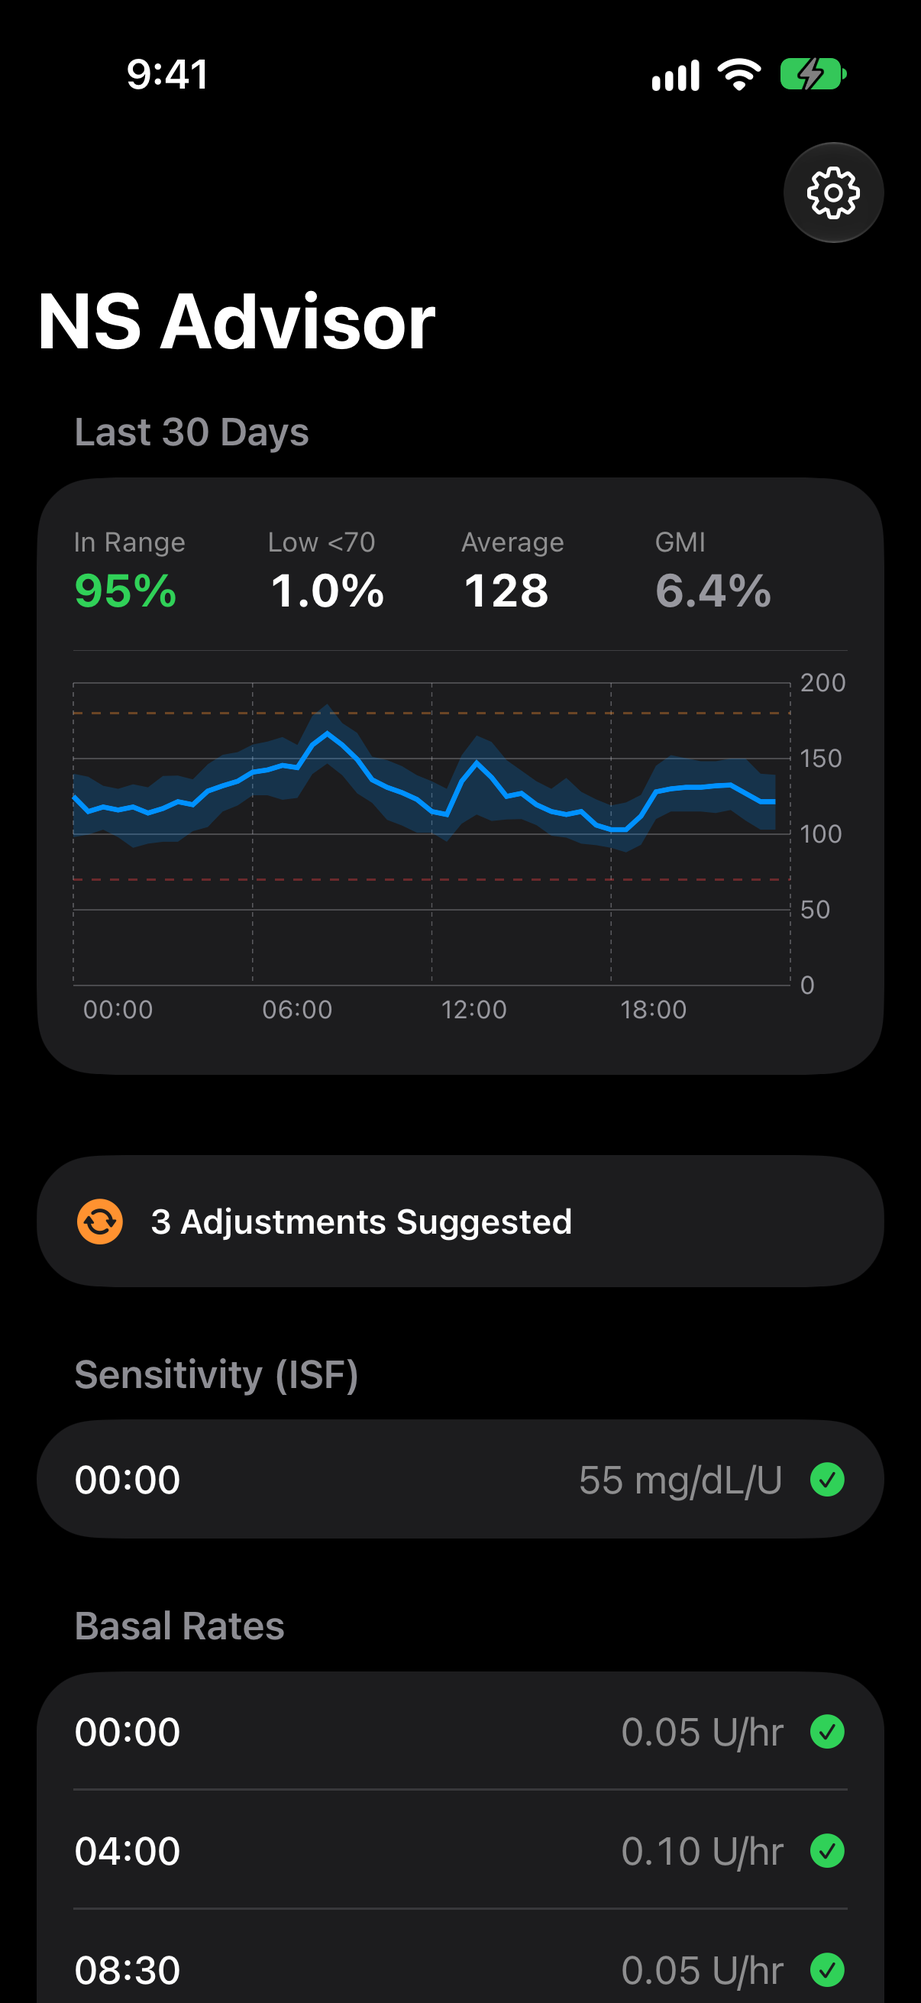
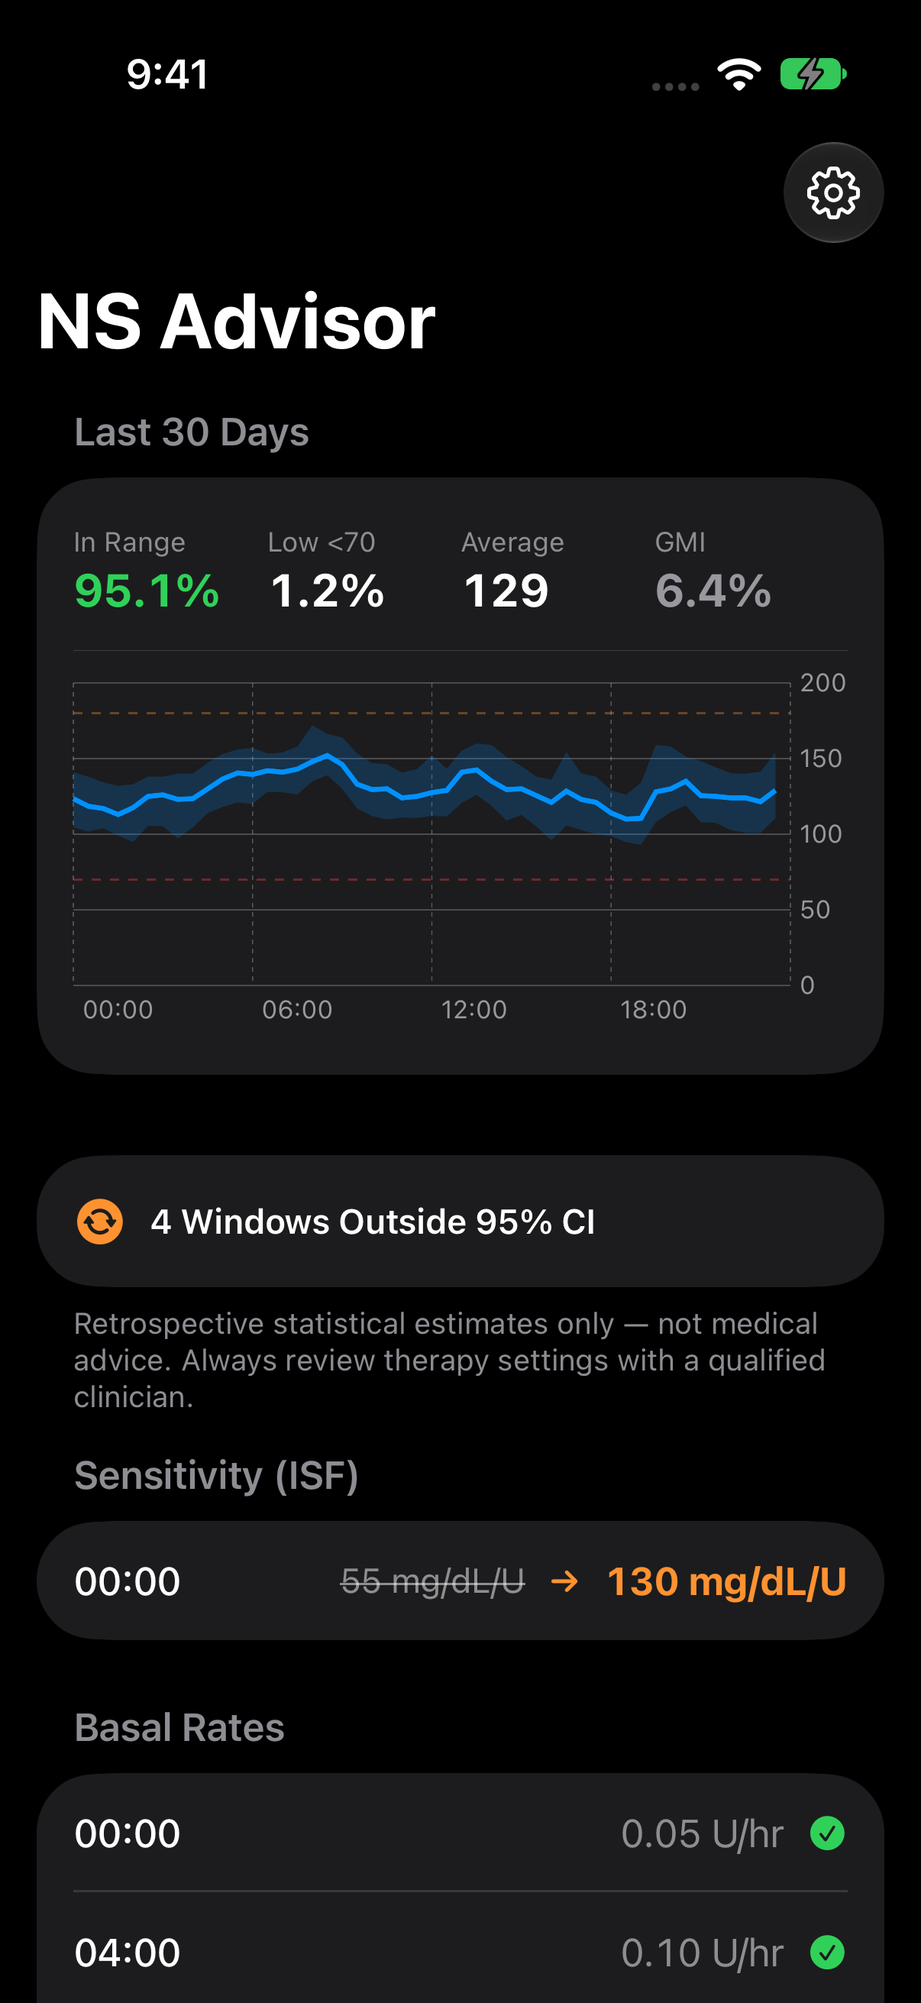
Add #WeAreNotWaiting first-launch safety acknowledgment, DISCLAIMER.md, and non-prescriptive CI phrasing

diff --git a/Apps/iOS/Views/RootContentView.swift b/Apps/iOS/Views/RootContentView.swift
@@ -7,7 +7,11 @@ struct RootContentView: View {
 
     var body: some View {
         Group {
-            if let report = viewModel.report {
+            if !viewModel.hasAcceptedDIYDisclaimer {
+                DIYSafetyAcknowledgmentView {
+                    viewModel.acceptDIYDisclaimer()
+                }
+            } else if let report = viewModel.report {
                 OverviewTabView(
                     viewModel: viewModel,
                     report: report,
@@ -21,7 +25,7 @@ struct RootContentView: View {
             }
         }
         .overlay {
-            if viewModel.isLoading && viewModel.report == nil {
+            if viewModel.isLoading && viewModel.report == nil && viewModel.hasAcceptedDIYDisclaimer {
                 ZStack {
                     Color.black.opacity(0.2).ignoresSafeArea()
                     VStack(spacing: 12) {
@@ -35,6 +39,109 @@ struct RootContentView: View {
                 }
             }
         }
+    }
+}
+
+struct DIYSafetyAcknowledgmentView: View {
+    var isReadOnlyReview: Bool = false
+    var onAccept: (() -> Void)? = nil
+
+    @Environment(\.dismiss) private var dismiss
+    @State private var confirmedUnderstanding = false
+
+    var body: some View {
+        NavigationStack {
+            Form {
+                Section {
+                    VStack(alignment: .leading, spacing: 8) {
+                        Label("Experimental Open-Source Code", systemImage: "exclamationmark.triangle.fill")
+                            .font(.headline)
+                            .foregroundStyle(.orange)
+                        Text("Nightscout Advisor is an open-source #WeAreNotWaiting community research project. It has NOT been reviewed, cleared, or approved by the FDA, EMA, or any regulatory authority, and is provided \"AS IS\" without warranty of any kind.")
+                            .font(.subheadline)
+                            .foregroundStyle(.secondary)
+                    }
+                    .padding(.vertical, 4)
+                }
+
+                Section("Important Safety Boundaries") {
+                    DIYNoticeRow(
+                        icon: "chart.xyaxis.line",
+                        title: "Retrospective Statistics Only — Not Medical Advice",
+                        detail: "All outputs are mathematical summaries of historical Nightscout logs. They cannot detect sensor compression lows, infusion site issues, illness, exercise, hormones, or unlogged meals."
+                    )
+                    DIYNoticeRow(
+                        icon: "bolt.heart.fill",
+                        title: "Insulin Parameter Changes Carry Severe Risk",
+                        detail: "Incorrect basal rates, insulin sensitivity factors (ISF), carb ratios, or target ranges can cause severe hypoglycemia, diabetic ketoacidosis (DKA), coma, or death."
+                    )
+                    DIYNoticeRow(
+                        icon: "stethoscope",
+                        title: "Independent Clinician Review Required",
+                        detail: "Never change insulin pump or closed-loop settings based solely on this software. Always evaluate retrospective data together with a qualified endocrinologist or diabetes care clinician."
+                    )
+                    DIYNoticeRow(
+                        icon: "person.badge.shield.checkmark.fill",
+                        title: "DIY Self-Build & Full User Responsibility",
+                        detail: "Do not distribute compiled builds to others. By building and running this source code, you assume sole responsibility for its operation and verify all clinical decisions independently."
+                    )
+                }
+
+                if !isReadOnlyReview {
+                    Section {
+                        Toggle(isOn: $confirmedUnderstanding) {
+                            Text("I understand this is unvalidated open-source research software, not medical advice, and I accept full responsibility.")
+                                .font(.footnote.weight(.medium))
+                        }
+
+                        Button {
+                            onAccept?()
+                        } label: {
+                            HStack {
+                                Spacer()
+                                Text("I Understand & Continue")
+                                    .font(.headline)
+                                Spacer()
+                            }
+                        }
+                        .disabled(!confirmedUnderstanding)
+                    }
+                }
+            }
+            .navigationTitle("Safety & Disclaimer")
+            .navigationBarTitleDisplayMode(.inline)
+            .toolbar {
+                if isReadOnlyReview {
+                    ToolbarItem(placement: .topBarTrailing) {
+                        Button("Done") { dismiss() }
+                    }
+                }
+            }
+        }
+    }
+}
+
+private struct DIYNoticeRow: View {
+    let icon: String
+    let title: String
+    let detail: String
+
+    var body: some View {
+        HStack(alignment: .top, spacing: 12) {
+            Image(systemName: icon)
+                .font(.body.weight(.semibold))
+                .foregroundStyle(.orange)
+                .frame(width: 22)
+                .padding(.top, 2)
+            VStack(alignment: .leading, spacing: 4) {
+                Text(title)
+                    .font(.subheadline.weight(.semibold))
+                Text(detail)
+                    .font(.caption)
+                    .foregroundStyle(.secondary)
+            }
+        }
+        .padding(.vertical, 3)
     }
 }
 
@@ -53,7 +160,7 @@ struct OnboardingWelcomeView: View {
                 } header: {
                     Text("Connect Nightscout")
                 } footer: {
-                    Text("Analyzes your glucose and insulin history privately on your iPhone.")
+                    Text("Reads historical glucose and treatment telemetry privately on your iPhone (read-only).")
                 }
 
                 Section {

diff --git a/Apps/iOS/AdvisorViewModel.swift b/Apps/iOS/AdvisorViewModel.swift
@@ -10,6 +10,7 @@ final class AdvisorViewModel: ObservableObject {
     @Published var isLoading: Bool = false
     @Published var errorMessage: String?
     @Published var isDemoMode: Bool = false
+    @Published var hasAcceptedDIYDisclaimer: Bool
 
     private let store = AdvisorStore.shared
     private let client = NightscoutClient()
@@ -22,9 +23,11 @@ final class AdvisorViewModel: ObservableObject {
         self.config = savedConfig
         self.report = cached
         self.isDemoMode = cached?.sourceURL.hasPrefix("demo://") == true
+        self.hasAcceptedDIYDisclaimer = AdvisorStore.shared.hasAcknowledgedDIYDisclaimer()
         WatchSyncBridge.shared.activate()
 
         if ProcessInfo.processInfo.arguments.contains("--demo-screenshots") {
+            self.hasAcceptedDIYDisclaimer = true
             let demoBundle = DemoTelemetryGenerator.makeSyntheticBundle(days: savedConfig.rollingDays, units: .mgdL)
             if let demoReport = try? TherapyAdvisorSolver.solve(bundle: demoBundle, config: savedConfig) {
                 self.report = demoReport
@@ -33,11 +36,19 @@ final class AdvisorViewModel: ObservableObject {
             return
         }
 
-        if savedCreds.normalizedBaseURL != nil {
+        if self.hasAcceptedDIYDisclaimer, savedCreds.normalizedBaseURL != nil {
             let isStale = cached.map { Date().timeIntervalSince($0.generatedAt) > 1800 } ?? true
             if isStale {
                 Task { await refreshFromNightscout() }
             }
+        }
+    }
+
+    func acceptDIYDisclaimer() {
+        store.setDIYDisclaimerAcknowledged(true)
+        hasAcceptedDIYDisclaimer = true
+        if credentials.normalizedBaseURL != nil {
+            Task { await refreshFromNightscout() }
         }
     }
 

diff --git a/Apps/iOS/Views/SchedulesTabView.swift b/Apps/iOS/Views/SchedulesTabView.swift
@@ -174,15 +174,20 @@ struct ScheduleDetailSheet: View {
             List {
                 Section {
                     LabeledContent("Window", value: detail.timeWindow)
-                    LabeledContent("Current Setting", value: detail.currentValue)
-                    LabeledContent("Suggested", value: detail.suggestedValue)
-                    LabeledContent("95% Range", value: detail.confidenceRange)
+                    LabeledContent("Active Profile", value: detail.currentValue)
+                    LabeledContent("Empirical Estimate", value: detail.suggestedValue)
+                    LabeledContent("95% Confidence Interval", value: detail.confidenceRange)
+                    LabeledContent("Alignment", value: detail.status.badgeTitle)
                 }
 
-                Section("Summary") {
+                Section {
                     Text(detail.details)
                         .font(.subheadline)
                         .foregroundStyle(.secondary)
+                } header: {
+                    Text("Statistical Derivation")
+                } footer: {
+                    Text("Informational retrospective telemetry summary (#WeAreNotWaiting). Never modify pump or closed-loop parameters without clinician review.")
                 }
             }
             .navigationTitle(detail.category)

diff --git a/Apps/iOS/Views/OverviewTabView.swift b/Apps/iOS/Views/OverviewTabView.swift
@@ -49,18 +49,20 @@ struct OverviewTabView: View {
                     .padding(.vertical, 6)
                 }
 
-                // 2. Therapy Settings Verdict Banner
+                // 2. Retrospective Statistical Alignment Summary
                 Section {
                     HStack(spacing: 10) {
                         let changes = report.totalAdjustmentsCount
                         Image(systemName: changes == 0 ? "checkmark.circle.fill" : "arrow.triangle.2.circlepath.circle.fill")
                             .font(.title3)
                             .foregroundStyle(changes == 0 ? Color.green : Color.orange)
-                        Text(changes == 0 ? "All Settings Look Good" : "\(changes) Adjustment\(changes == 1 ? "" : "s") Suggested")
+                        Text(changes == 0 ? "All Schedules Within 95% CI" : "\(changes) Window\(changes == 1 ? "" : "s") Outside 95% CI")
                             .font(.subheadline.weight(.semibold))
                         Spacer()
                     }
                     .padding(.vertical, 2)
+                } footer: {
+                    Text("Retrospective statistical estimates only — not medical advice. Always review therapy settings with a qualified clinician.")
                 }
 
                 // 3. Clean Single-Line Therapy Schedules

diff --git a/Apps/WatchWidgets/NightscoutAdvisorComplications.swift b/Apps/WatchWidgets/NightscoutAdvisorComplications.swift
@@ -92,7 +92,7 @@ struct AdvisorComplicationEntryView: View {
                 HStack(spacing: 4) {
                     Image(systemName: count == 0 ? "checkmark.circle.fill" : "arrow.triangle.2.circlepath.circle.fill")
                         .foregroundStyle(count == 0 ? Color.green : Color.orange)
-                    Text(count == 0 ? "All Good" : "\(count) Update\(count == 1 ? "" : "s")")
+                    Text(count == 0 ? "Within 95% CI" : "\(count) Outside CI")
                         .font(.caption2.weight(.bold))
                 }
 
@@ -184,7 +184,7 @@ struct NightscoutAdvisorComplicationsBundle: Widget {
                 .containerBackground(.fill.tertiary, for: .widget)
         }
         .configurationDisplayName("NS Advisor")
-        .description("Shows a clean ✓ when settings match, or the count of suggested adjustments.")
+        .description("Displays ✓ when active profile schedules sit within the 95% CI, or the count of windows outside CI.")
         .supportedFamilies([
             .accessoryCircular,
             .accessoryRectangular,

diff --git a/Packages/NightscoutAdvisorKit/Sources/NightscoutAdvisorKit/Storage/AdvisorStore.swift b/Packages/NightscoutAdvisorKit/Sources/NightscoutAdvisorKit/Storage/AdvisorStore.swift
@@ -12,6 +12,7 @@ public final class AdvisorStore: @unchecked Sendable {
     private let reportCacheKey = "cached_advisor_report_v4"
     private let watchSummaryKey = "cached_watch_summary_v4"
     private let sharedCredsKey = "shared_nightscout_creds_v2"
+    private let diyDisclaimerAckKey = "diy_safety_disclaimer_ack_v1"
 
     private let watchSummaryFilename = "watch_summary_v4.json"
     private let sharedCredsFilename = "shared_creds_v2.json"
@@ -97,6 +98,16 @@ public final class AdvisorStore: @unchecked Sendable {
             return creds
         }
         return NightscoutCredentials()
+    }
+
+    // MARK: - DIY Safety & Responsibility Acknowledgment
+
+    public func hasAcknowledgedDIYDisclaimer() -> Bool {
+        defaults.bool(forKey: diyDisclaimerAckKey)
+    }
+
+    public func setDIYDisclaimerAcknowledged(_ acknowledged: Bool = true) {
+        defaults.set(acknowledged, forKey: diyDisclaimerAckKey)
     }
 
     // MARK: - Therapy Settings Config

diff --git a/Apps/Watch/WatchContentView.swift b/Apps/Watch/WatchContentView.swift
@@ -15,12 +15,12 @@ struct WatchContentView: View {
                 let count = sum.effectiveAdjustmentsCount
                 ScrollView {
                     VStack(spacing: 8) {
-                        // 1. Advisor Status Headline
+                        // 1. Statistical Alignment Headline
                         HStack(spacing: 6) {
                             Image(systemName: count == 0 ? "checkmark.circle.fill" : "arrow.triangle.2.circlepath.circle.fill")
                                 .font(.callout)
                                 .foregroundStyle(count == 0 ? Color.green : Color.orange)
-                            Text(count == 0 ? "All In Sync" : "\(count) Update\(count == 1 ? "" : "s")")
+                            Text(count == 0 ? "Within 95% CI" : "\(count) Outside CI")
                                 .font(.footnote.weight(.bold))
                             Spacer()
                         }

diff --git a/Apps/iOS/Views/SettingsTabView.swift b/Apps/iOS/Views/SettingsTabView.swift
@@ -66,11 +66,14 @@ struct SettingsTabView: View {
                     }
                 }
 
-                if let report = viewModel.report {
-                    Section {
+                Section("Documentation & Safety") {
+                    if let report = viewModel.report {
                         NavigationLink("How Calculations Work") {
                             MethodologyTabView(report: report)
                         }
+                    }
+                    NavigationLink("Safety & Open-Source Disclaimer") {
+                        DIYSafetyAcknowledgmentView(isReadOnlyReview: true)
                     }
                 }
 

diff --git a/Packages/NightscoutAdvisorKit/Sources/NightscoutAdvisorKit/Models/AdvisorReport.swift b/Packages/NightscoutAdvisorKit/Sources/NightscoutAdvisorKit/Models/AdvisorReport.swift
@@ -8,9 +8,9 @@ public enum SyncStatus: String, Codable, Sendable {
 
     public var badgeTitle: String {
         switch self {
-        case .inSync: return "✓ In Sync"
-        case .inConfidenceInterval: return "✓ In 95% CI"
-        case .adjustRecommended: return "Adjust Recommended"
+        case .inSync: return "✓ Matches Profile"
+        case .inConfidenceInterval: return "✓ Within 95% CI"
+        case .adjustRecommended: return "Outside 95% CI"
         case .insufficientData: return "Profile Anchor"
         }
     }

diff --git a/README.md b/README.md
@@ -4,7 +4,13 @@
 
 # Nightscout Advisor (`NS Advisor` for iOS & watchOS)
 
-**First-Principles Closed-Loop Telemetry & Therapy Schedule Advisor for Nightscout.**
+> [!CAUTION]
+> **Experimental `#WeAreNotWaiting` Open-Source Research Code — Not a Medical Device & Not Medical Advice**
+> * Nightscout Advisor has **not** been reviewed, cleared, or approved by the FDA, EMA, or any regulatory authority, and is provided **"AS IS" without warranty** ([MIT License](LICENSE) • [Full Safety Disclaimer](DISCLAIMER.md)).
+> * All values shown are **retrospective statistical summaries** of historical Nightscout logs. Incorrect insulin settings can cause **severe hypoglycemia, DKA, coma, or death**—**never** alter pump or closed-loop parameters without independent review by a qualified endocrinologist/clinician.
+> * **Source-code self-build only:** Just like DIY Loop, Trio, and AndroidAPS, you must compile and sign this code yourself for your own personal use. **Do not** distribute pre-compiled `.ipa` binaries or shared TestFlight invites to others.
+
+**First-Principles Closed-Loop Telemetry & Retrospective Schedule Analysis for Nightscout.**
 
 Nightscout Advisor connects directly from your iPhone and Apple Watch to any **Nightscout** instance (`mg/dL` or `mmol/L`)—compatible across automated insulin delivery systems (`Trio`, `AndroidAPS`, `iAPS`, `OpenAPS`, `Loop`, and other Nightscout-connected controllers)—and runs a coupled 4-stage insulin-kinetics & stochastic control solver **100% on-device** with zero cloud intermediaries, zero data collection, and zero heuristic block hacks.
 
@@ -51,9 +57,11 @@ Nightscout Advisor solves all four closed-loop therapy schedules directly from y
 
 ---
 
-## Installation Option A: GitHub Browser Build $\to$ TestFlight
+## Personal DIY Build Option A: GitHub Browser Build $\to$ Your Own TestFlight
 
-If you already build open-source Nightscout / DIY AID apps via GitHub Actions, you can reuse the standard 6 GitHub Secrets and `Match-Certificates` repository:
+*(For your own personal Apple Developer account only — never distribute compiled builds to others.)*
+
+If you already build open-source Nightscout / DIY AID apps for yourself via GitHub Actions, you can reuse your own 6 GitHub Secrets and private `Match-Certificates` repository:
 
 1. **Fork** this repository on GitHub.
 2. Go to your fork's **Settings $\to$ Secrets and variables $\to$ Actions** and add:
@@ -68,11 +76,11 @@ If you already build open-source Nightscout / DIY AID apps via GitHub Actions, y
 
 ---
 
-## Installation Option B: Build Directly with Xcode
+## Personal DIY Build Option B: Build Directly with Xcode
 
 1. Clone this repository:
    ```bash
-   git clone https://github.com/<your-username>/NightscoutAdvisor.git
+   git clone https://github.com/userseven8/NightscoutAdvisor.git
    cd NightscoutAdvisor
    ```
 2. Create an untracked local signing config at `Config/NightscoutAdvisorConfigOverride.xcconfig`:
@@ -95,6 +103,8 @@ swift test
 
 ---
 
-## Clinical Disclaimer (`#WeAreNotWaiting`)
+## Safety Disclaimer & License (`#WeAreNotWaiting`)
 
-Nightscout Advisor is an open-source retrospective telemetry and educational research tool. It is **not** FDA-cleared or CE-marked medical device software and does **not** automatically modify pump settings or deliver insulin. Always review therapy profile adjustments with a qualified endocrinology clinician.
+Nightscout Advisor is free, non-commercial open-source research code distributed under the [MIT License](LICENSE). It is **not** FDA-cleared or CE-marked medical device software, does **not** connect to or modify any insulin pump, and provides retrospective statistical summaries for educational discussion only.
+
+Please read the complete **[Safety Disclaimer & Assumption of Risk (`DISCLAIMER.md`)](DISCLAIMER.md)** before building or using this project. Always review any therapy profile decisions with a qualified endocrinology clinician.

diff --git a/DISCLAIMER.md b/DISCLAIMER.md
@@ -1,0 +1,25 @@
+# Experimental Open-Source Disclaimer & Assumption of Risk (`#WeAreNotWaiting`)
+
+**PLEASE READ CAREFULLY BEFORE COMPILING, RUNNING, OR REFERENCING THIS SOURCE CODE.**
+
+## 1. Experimental Open-Source Research Software — Not a Medical Device
+Nightscout Advisor (`NS Advisor` and `NightscoutAdvisorKit`) is a free, non-commercial, open-source retrospective data-analysis and educational project developed in the `#WeAreNotWaiting` community spirit.
+
+* It is **NOT** a certified, cleared, or approved medical device under **FDA** regulations, the **EU Medical Device Regulation (Regulation (EU) 2017/745)**, the **UK MHRA**, or any other regulatory authority worldwide.
+* It is distributed solely as **uncompiled open-source source code** outside the course of any commercial activity (see also **Directive (EU) 2024/2853** regarding free and open-source software).
+* Do **NOT** distribute pre-compiled binaries (`.ipa` files, public TestFlight links, or signed builds) to third parties, and do **NOT** market or represent this software as clinically validated. Every individual who chooses to inspect, compile, and run this source code does so strictly for personal educational/research evaluation using their own developer credentials.
+
+## 2. Informational Retrospective Statistics Only — Not Medical Advice
+* All outputs generated by Nightscout Advisor are **retrospective mathematical and statistical summaries** derived from historical Nightscout telemetry (`entries`, `treatments`, and `profile` records).
+* Retrospective algorithms **cannot** observe or account for sensor compression lows, calibration drift, infusion-set or cannula occlusion, lipohypertrophy, unannounced meals, physical activity, illness, stress, menstrual or growth hormones, alcohol, or concurrent medications.
+* Nothing displayed by this software constitutes medical advice, clinical diagnosis, or a prescription or instruction to alter insulin therapy.
+
+## 3. Severe Risk of Insulin Therapy Adjustments
+Insulin is a high-alert hormone with a narrow therapeutic window. Modifying basal rates, insulin sensitivity factors (ISF), carbohydrate ratios (CR), or glucose target ranges based on incomplete, noisy, or misread telemetry can result in **severe hypoglycemia, seizure, diabetic ketoacidosis (DKA), coma, permanent injury, or death**.
+
+**Never modify insulin pump or automated insulin delivery (AID) settings based solely on this software.** Always review historical glucose telemetry and any potential therapy adjustments with a licensed endocrinologist or qualified diabetes care professional.
+
+## 4. No Warranty & Full Assumption of Risk
+In accordance with the [MIT License](LICENSE), this source code is provided **"AS IS", WITHOUT WARRANTY OF ANY KIND**, express or implied, including but not limited to warranties of accuracy, reliability, safety, or fitness for any particular purpose.
+
+By cloning, compiling, or running this repository, **you acknowledge these risks and accept 100% sole responsibility** for verifying all calculations and for all clinical decisions made regarding your or your dependent's diabetes management. In no event shall the authors, contributors, or copyright holders be liable for any claim, injury, loss, or damages arising from or connected with the use of this software.
